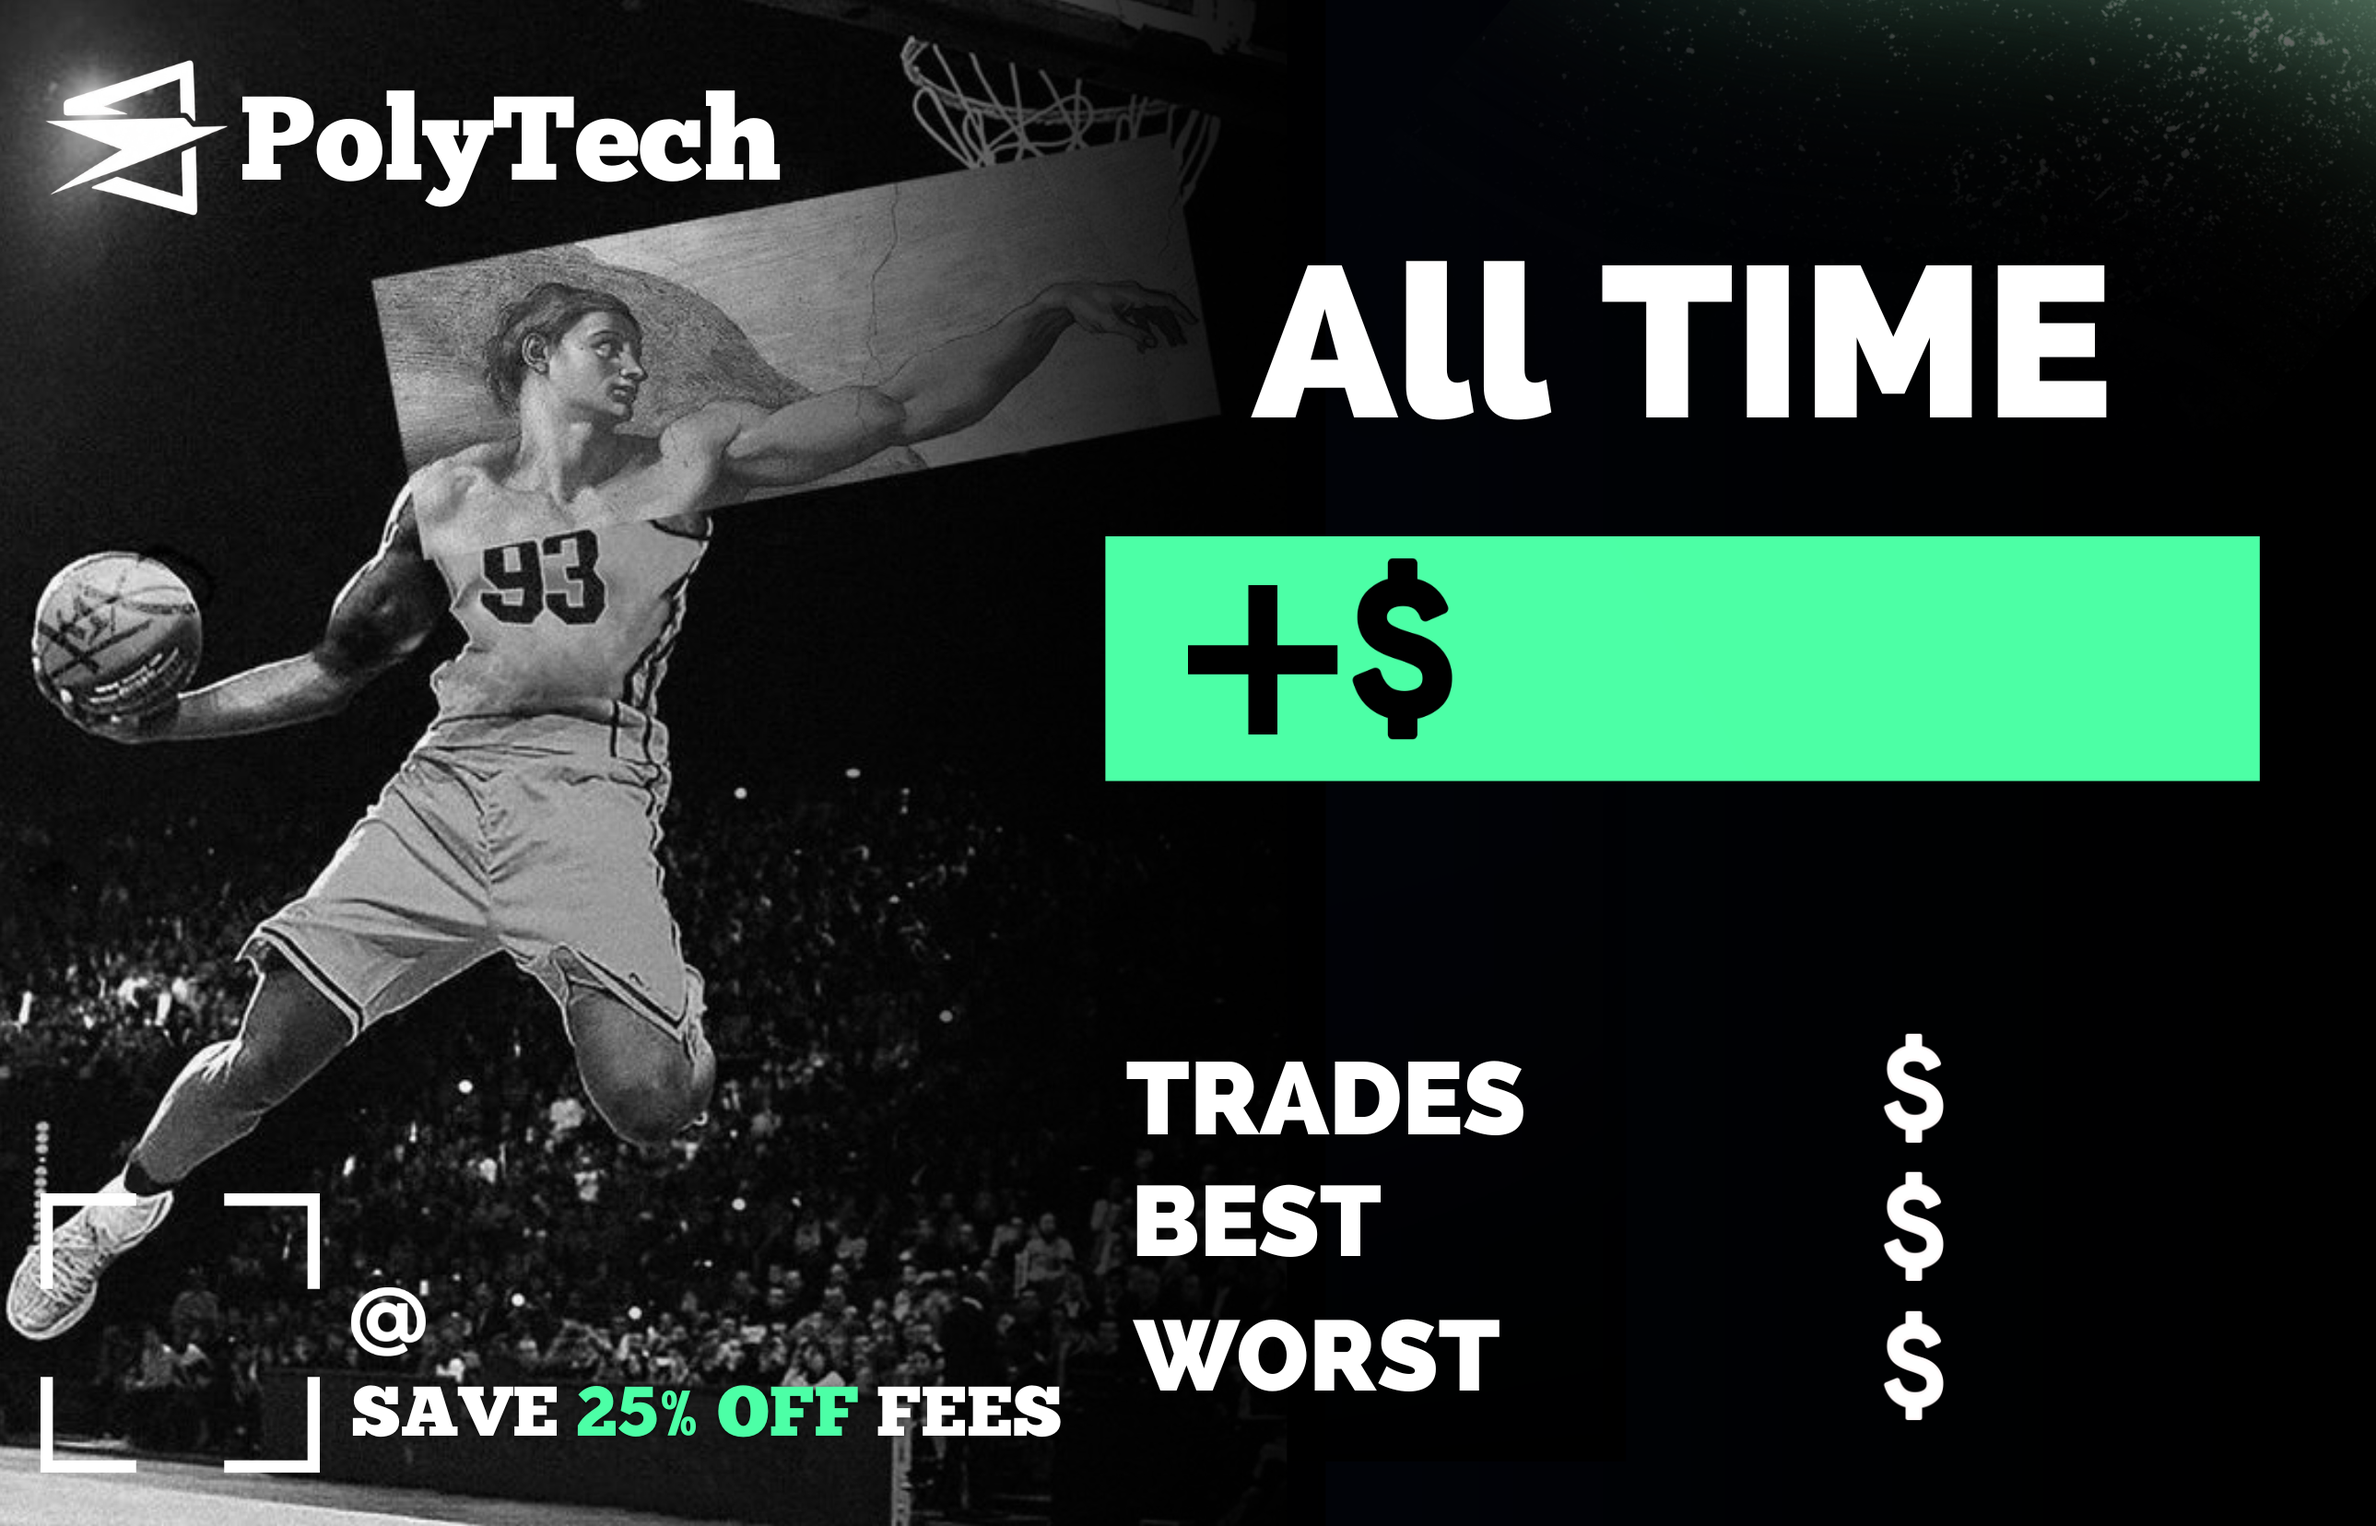
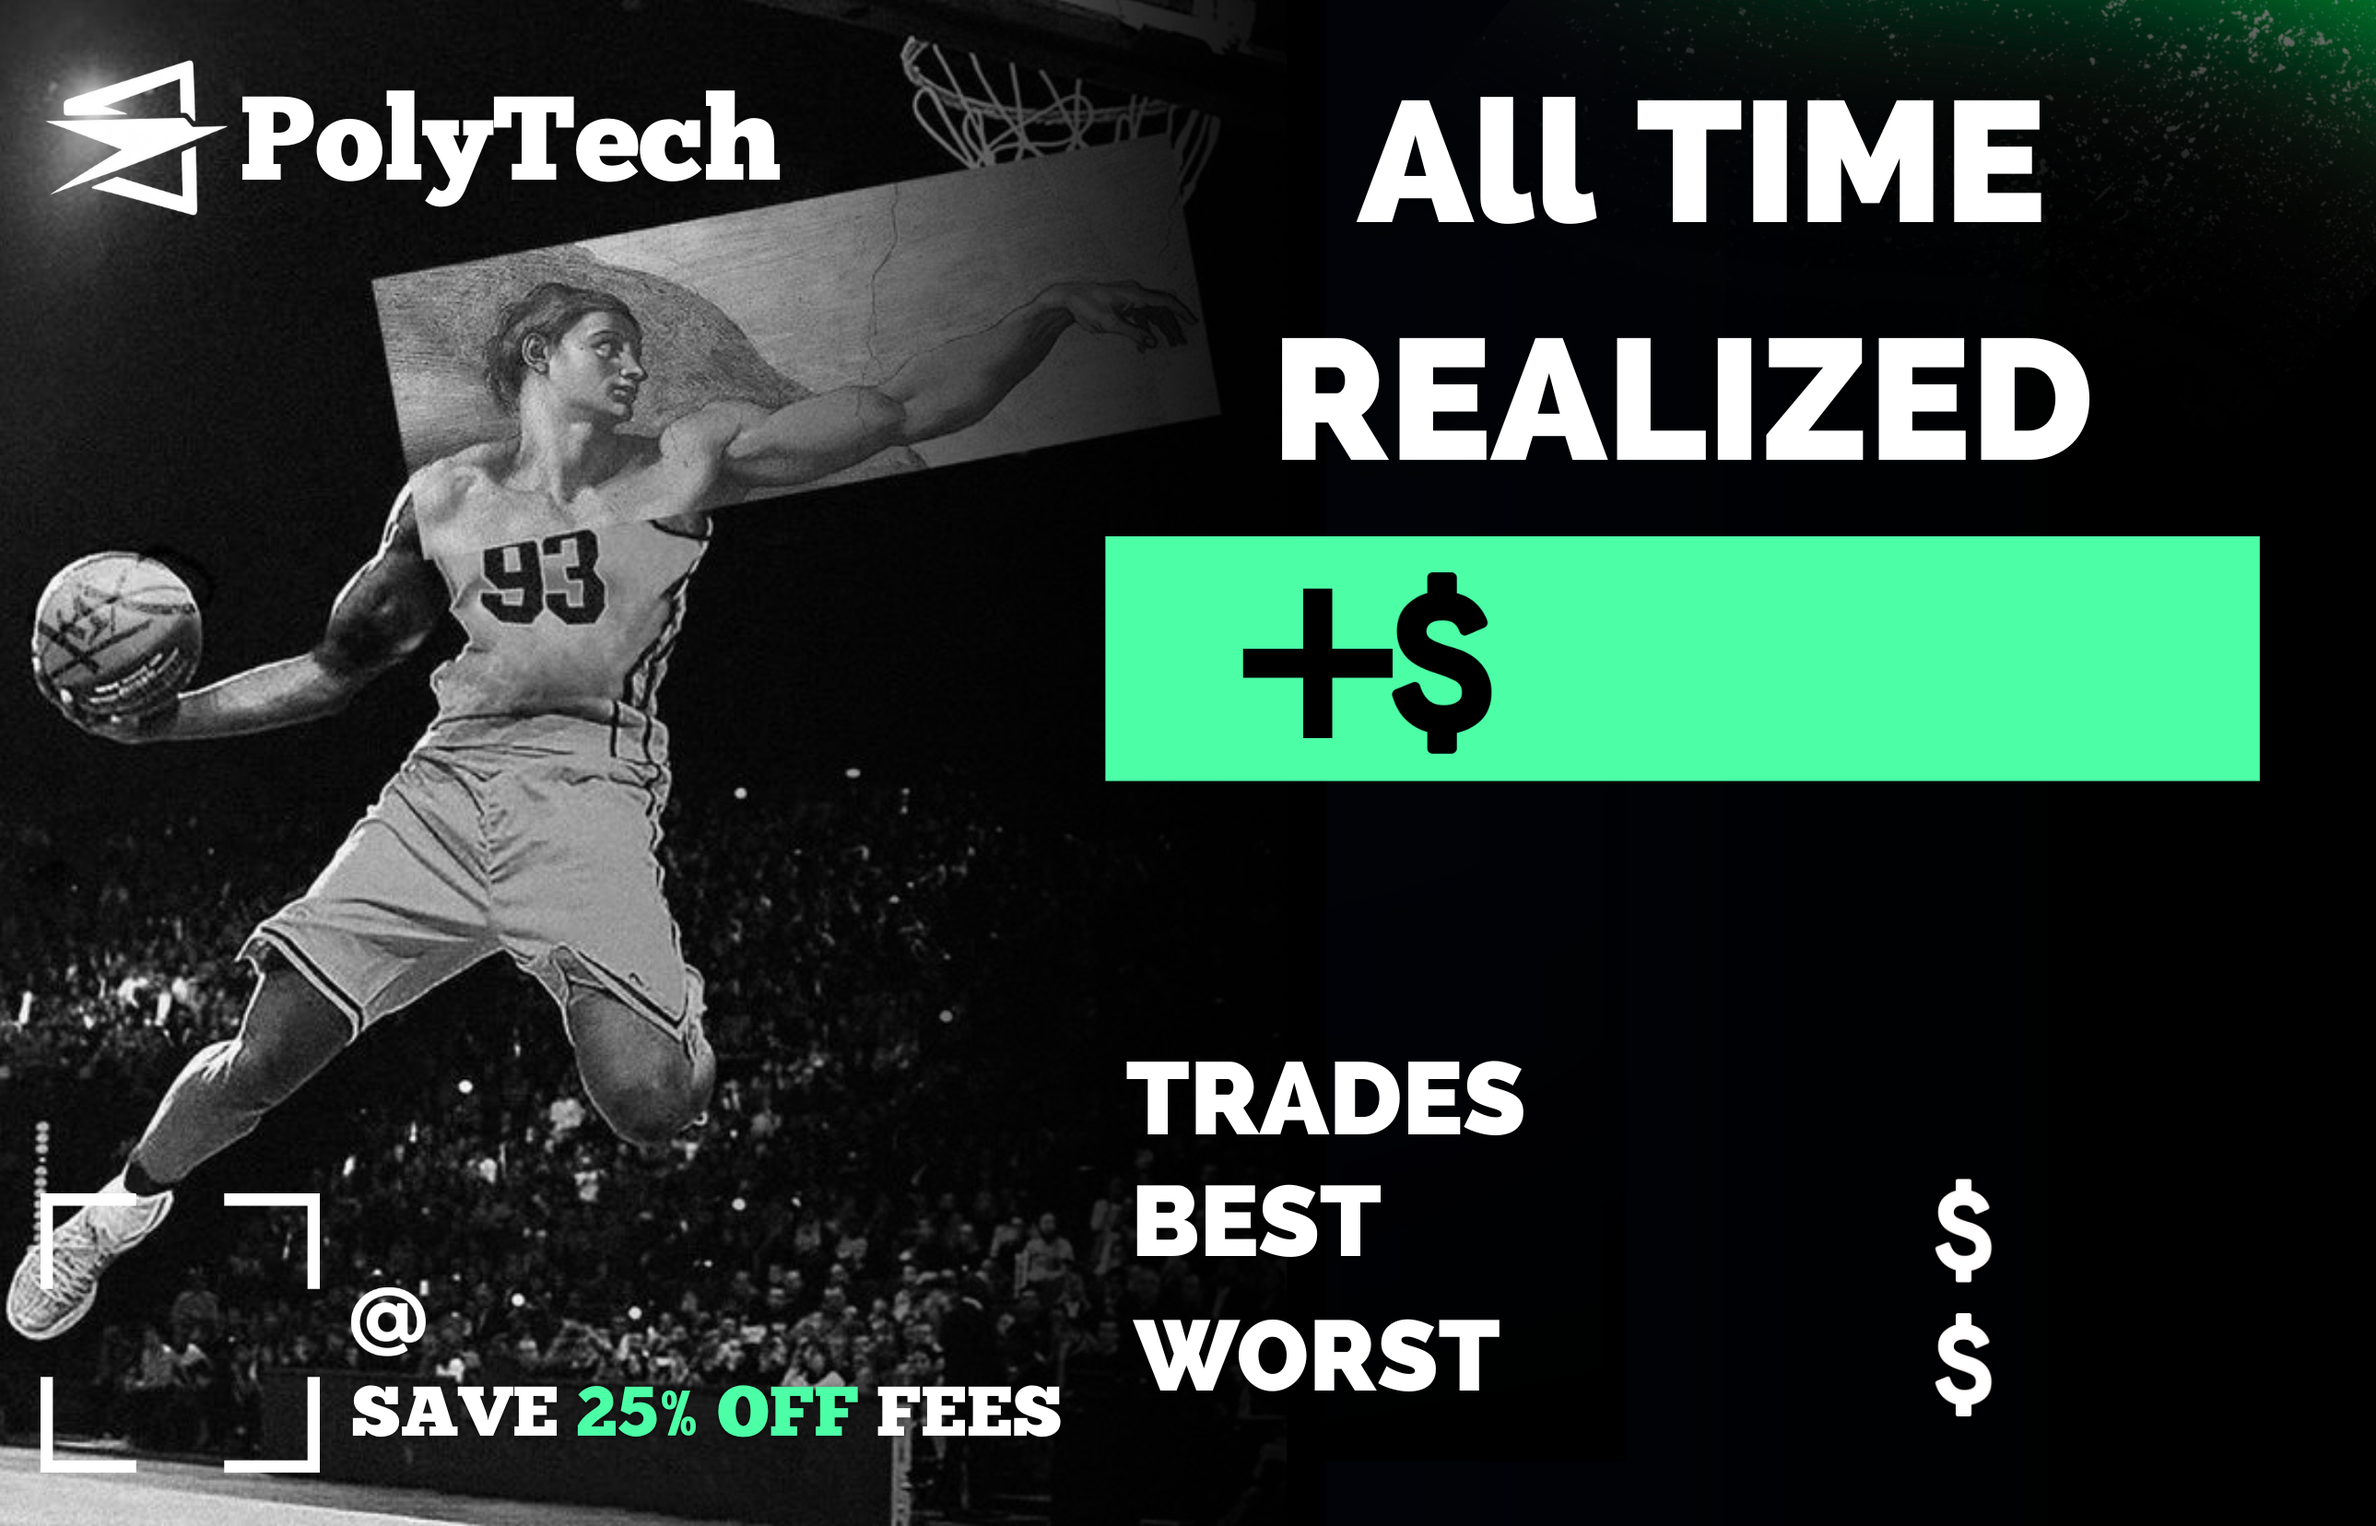
fix: show actual post-commission USDC and copy's fill price in copy trade notifications
Previously the notification displayed copySize (pre-commission) and the
leader's price/shares. Now uses the actual traded amount after commission
deduction, the copy's fill price, and computes shares from the copy's
own values. Also fixes all-time PnL to include active positions' realized PnL.

diff --git a/src/services/copyTrade.ts b/src/services/copyTrade.ts
@@ -230,6 +230,8 @@ interface ExecResult {
   // F4: Our execution price (worst-case limit we submitted), used as TP/SL entry price.
   // Distinct from trade.price (the trader's fill price) which could differ due to slippage.
   filledPrice?: number;
+  /** Actual USDC amount sent to exchange (after commission deduction) */
+  actualAmount?: number;
 }
 
 async function executeCopyOrder(
@@ -365,7 +367,7 @@ async function executeCopyOrder(
       );
     }
 
-    return { status: 'filled', orderID: orderResp.orderId, filledPrice: price };
+    return { status: 'filled', orderID: orderResp.orderId, filledPrice: price, actualAmount: tradeAmount };
   } catch (err: any) {
     if (isNoOrderbook(err)) {
       return { status: 'skipped', errorMsg: 'market closed/no orderbook' };
@@ -766,8 +768,14 @@ async function tickForTrader(
             const marketUrl = (mktInfo?.eventSlug || mktInfo?.slug)
               ? `https://polymarket.com/event/${mktInfo!.eventSlug || mktInfo!.slug}`
               : `https://polymarket.com/profile/${traderAddress}`;
-            const shares = trade.size > 0 ? trade.size : (trade.price > 0 ? trade.sizeUsd / trade.price : 0);
             const sideLabel = effectiveSide === 'BUY' ? 'BOUGHT' : 'SOLD';
+
+            // Use actual traded amount (post-commission) for BUY, copySize for SELL
+            const displayAmount = result.actualAmount ?? copySize;
+            // Use copy's fill price if available, otherwise leader's price
+            const displayPrice = result.filledPrice ?? trade.price;
+            // Compute shares from the copy's values
+            const shares = displayPrice > 0 ? displayAmount / displayPrice : 0;
 
             // Fetch on-chain tx hash for the copy order (non-blocking with short timeout)
             let txLine = '';
@@ -785,12 +793,12 @@ async function tickForTrader(
             }
 
             const msg =
-              `⚡ <b>${escHtml(traderName)}</b> just <b>${sideLabel} ${effectiveOutcome}</b> for <b>${copySize.toFixed(2)} USDC</b>\n\n` +
+              `⚡ <b>${escHtml(traderName)}</b> just <b>${sideLabel} ${effectiveOutcome}</b> for <b>${displayAmount.toFixed(2)} USDC</b>\n\n` +
               `📊 Market: <b>${escHtml(question)}</b>\n` +
               `🎯 Outcome: <b>${effectiveOutcome}</b>\n` +
-              `💰 Price: <b>$${trade.price.toFixed(3)}</b>\n` +
+              `💰 Price: <b>$${displayPrice.toFixed(3)}</b>\n` +
               `📈 Shares: <b>${shares.toFixed(2)}</b>\n` +
-              `💵 USDC Amount: <b>${copySize.toFixed(2)} USDC</b>\n` +
+              `💵 USDC Amount: <b>${displayAmount.toFixed(2)} USDC</b>\n` +
               txLine +
               `\n<a href="${marketUrl}">View Market</a>`;
 

diff --git a/src/bot/handlers/walletPage.ts b/src/bot/handlers/walletPage.ts
@@ -1226,17 +1226,18 @@ export async function handlePnl(ctx: Context): Promise<void> {
     }
 
     const totalUnrealized = activePositions.reduce((s, p) => s + p.cashPnl, 0);
-    const totalRealized   = closedPositions.reduce((s, p) => s + p.realizedPnl, 0);
-    const totalPnl        = totalUnrealized + totalRealized;
+    const activeRealized  = activePositions.reduce((s, p) => s + p.realizedPnl, 0);
+    const closedRealized  = closedPositions.reduce((s, p) => s + p.realizedPnl, 0);
+    const totalPnl        = totalUnrealized + activeRealized + closedRealized;
     const activeInvested  = activePositions.reduce((s, p) => s + (p.initialValue), 0);
     const closedInvested  = closedPositions.reduce((s, p) => s + p.totalBought, 0);
     const totalInvested   = activeInvested + closedInvested;
     const percentPnl      = totalInvested > 0 ? (totalPnl / totalInvested) * 100 : 0;
 
-    // All-time card stats
+    // All-time card stats — each position's total PnL = unrealized + realized
     const tradeCount = activePositions.length + closedPositions.length;
     const allPnls = [
-      ...activePositions.map(p => p.cashPnl),
+      ...activePositions.map(p => p.cashPnl + p.realizedPnl),
       ...closedPositions.map(p => p.realizedPnl),
     ];
     const bestTrade  = allPnls.length > 0 ? Math.max(...allPnls) : 0;
@@ -1425,12 +1426,13 @@ export async function handlePnlShare(ctx: Context, type: 'alltime' | 'portfolio'
 
     if (type === 'alltime') {
       const totalUnrealized = activePositions.reduce((s, p) => s + p.cashPnl, 0);
-      const totalRealized   = closedPositions.reduce((s, p) => s + p.realizedPnl, 0);
-      const totalPnl        = totalUnrealized + totalRealized;
+      const activeRealized  = activePositions.reduce((s, p) => s + p.realizedPnl, 0);
+      const closedRealized  = closedPositions.reduce((s, p) => s + p.realizedPnl, 0);
+      const totalPnl        = totalUnrealized + activeRealized + closedRealized;
 
       const tradeCount = activePositions.length + closedPositions.length;
       const allPnls = [
-        ...activePositions.map(p => p.cashPnl),
+        ...activePositions.map(p => p.cashPnl + p.realizedPnl),
         ...closedPositions.map(p => p.realizedPnl),
       ];
       const bestTrade  = allPnls.length > 0 ? Math.max(...allPnls) : 0;
